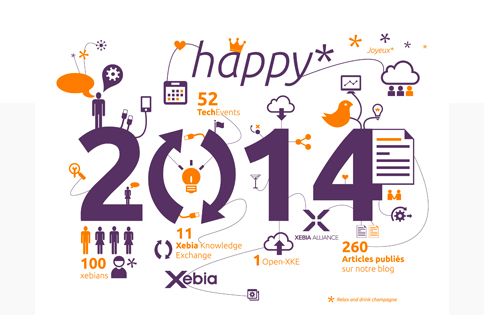
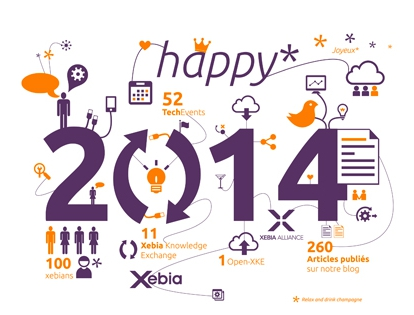
Brique 2014
(cherry picked from commit 83bf8c8b3130015f9b0c3c71f53744e612d884fa)

Conflicts:
	styles/main.min.css

diff --git a/styles/main.min.css b/styles/main.min.css
@@ -1,4 +1,4 @@
-.block{overflow:hidden;opacity:0;display:none;vertical-align:top;height:330px;margin:8px;cursor:move;-moz-box-shadow:0 4px 7px rgba(0,0,0,0.3);-webkit-box-shadow:0 4px 7px rgba(0,0,0,0.3);box-shadow:0 4px 7px rgba(0,0,0,0.3);min-width:150px}@media (max-width:1010px){.block:not(.small){min-width:97%;height:auto}.block.small{width:47%}}@media (max-width:700px){.block.small{min-width:97%;height:auto}}.standard-block{background-color:white}.standard-block .content-block{position:relative}.standard-block .bottom-arrow{width:0;height:0;border-left:10px solid transparent;border-right:10px solid transparent;border-top:15px solid white;position:absolute;left:10%}.standard-block .title-block{height:20px;margin:5px;padding:5px;color:white;text-transform:uppercase}.standard-block .title-block:after{clear:both;content:'';display:block}.standard-block .title-block time{float:right;text-transform:none}.standard-block .title-block.xebia-title{background-color:#702965}.standard-block .title-block.thiga-title{background-color:#30d7ce}.standard-block .title-block.labs-title{background-color:#408a29}.standard-block .title-block.ux-title{background-color:#2e2e2e}.standard-block h1{margin:2px 5px;margin-left:15px;margin-right:15px;font-size:21px;text-transform:uppercase;margin-top:20px;min-height:60px;font-weight:100}.standard-block p{margin-top:5px;margin-left:15px;margin-right:15px;text-align:justify}.standard-block .illustration{display:block;margin:0 auto}@media (max-width:1010px){.standard-block .illustration.big-illustration{width:100%}}.djerba-block h1{min-height:61px}.djerba-block img{height:212px}.eventbrite-block h1{min-height:153px}.eventbrite-block img{height:120px}.blog-block{max-width:480px}.blog-block h1{color:#702965;font-size:13pt;font-weight:bold;text-transform:uppercase;text-decoration:none;height:60px}.blog-block h1:hover{text-decoration:underline}.blog-block .excerpt{height:200px;line-height:200px;overflow:hidden;text-overflow:ellipsis;position:relative}.blog-block .excerpt .excerpt-content{line-height:1.2;margin-left:15px;margin-right:15px;font-weight:100;font-size:11pt;max-width:100%;display:inline-block;vertical-align:middle;max-height:100%}.blog-block .excerpt .excerpt-content img{max-width:100%;max-height:100%}.blog-block .excerpt:after{content:'';position:absolute;left:0;right:0;bottom:0;height:70px;width:100%;background-color:rgba(255,255,255,0);background:-webkit-linear-gradient(top, rgba(255,255,255,0), #fff);background:-moz-linear-gradient(top, rgba(255,255,255,0), #fff);background:-ms-linear-gradient(top, rgba(255,255,255,0), #fff);background:-o-linear-gradient(top, rgba(255,255,255,0), #fff);background:linear-gradient(top, rgba(255,255,255,0), #fff)}.ux-block{width:482px;background:url('../images/blocks/img_ux-republic.jpg') bottom}.ux-block .content-block{display:none}.ux-block .content-block img{max-width:482px}@media (max-width:1010px){.ux-block{background:white;width:auto}.ux-block .content-block{display:block}}.voeux-block{width:484px;background:url('../images/blocks/img-Brique-2014.jpg') bottom}.voeux-block .title-block{margin:0;border:5px solid white}.voeux-block .content-block{display:none}.voeux-block .content-block img{max-width:484px}@media (max-width:1010px){.voeux-block{background:white;width:auto}.voeux-block .content-block{display:block}}
+.block{overflow:hidden;opacity:0;display:none;vertical-align:top;height:330px;margin:8px;cursor:move;-moz-box-shadow:0 4px 7px rgba(0,0,0,0.3);-webkit-box-shadow:0 4px 7px rgba(0,0,0,0.3);box-shadow:0 4px 7px rgba(0,0,0,0.3);min-width:150px}@media (max-width:1010px){.block:not(.small){min-width:97%;height:auto}.block.small{width:47%}}@media (max-width:700px){.block.small{min-width:97%;height:auto}}.standard-block{background-color:white}.standard-block .content-block{position:relative}.standard-block .bottom-arrow{width:0;height:0;border-left:10px solid transparent;border-right:10px solid transparent;border-top:15px solid white;position:absolute;left:10%}.standard-block .title-block{height:20px;margin:5px;padding:5px;color:white;text-transform:uppercase}.standard-block .title-block:after{clear:both;content:'';display:block}.standard-block .title-block time{float:right;text-transform:none}.standard-block .title-block.xebia-title{background-color:#702965}.standard-block .title-block.thiga-title{background-color:#30d7ce}.standard-block .title-block.labs-title{background-color:#408a29}.standard-block .title-block.ux-title{background-color:#2e2e2e}.standard-block h1{margin:2px 5px;margin-left:15px;margin-right:15px;font-size:21px;text-transform:uppercase;margin-top:20px;min-height:60px;font-weight:100}.standard-block p{margin-top:5px;margin-left:15px;margin-right:15px;text-align:justify}.standard-block .illustration{display:block;margin:0 auto}@media (max-width:1010px){.standard-block .illustration.big-illustration{width:100%}}.djerba-block h1{min-height:61px}.djerba-block img{height:212px}.eventbrite-block h1{min-height:153px}.eventbrite-block img{height:120px}.blog-block{max-width:480px}.blog-block h1{color:#702965;font-size:13pt;font-weight:bold;text-transform:uppercase;text-decoration:none;height:60px}.blog-block h1:hover{text-decoration:underline}.blog-block .excerpt{height:200px;line-height:200px;overflow:hidden;text-overflow:ellipsis;position:relative}.blog-block .excerpt .excerpt-content{line-height:1.2;margin-left:15px;margin-right:15px;font-weight:100;font-size:11pt;max-width:100%;display:inline-block;vertical-align:middle;max-height:100%}.blog-block .excerpt .excerpt-content img{max-width:100%;max-height:100%}.blog-block .excerpt:after{content:'';position:absolute;left:0;right:0;bottom:0;height:70px;width:100%;background-color:rgba(255,255,255,0);background:-webkit-linear-gradient(top, rgba(255,255,255,0), #fff);background:-moz-linear-gradient(top, rgba(255,255,255,0), #fff);background:-ms-linear-gradient(top, rgba(255,255,255,0), #fff);background:-o-linear-gradient(top, rgba(255,255,255,0), #fff);background:linear-gradient(top, rgba(255,255,255,0), #fff)}.ux-block{width:482px;background:url('../images/blocks/img_ux-republic.jpg') bottom}.ux-block .content-block{display:none}.ux-block .content-block img{max-width:482px}@media (max-width:1010px){.ux-block{background:white;width:auto}.ux-block .content-block{display:block}}.voeux-block{width:414px;background:url('../images/blocks/img-Brique-2014.jpg') bottom}.voeux-block .content-block{display:none}.voeux-block .content-block img{max-width:414px}@media (max-width:1010px){.voeux-block{background:white;width:auto}.voeux-block .content-block{display:block}}
 .headers>div.labs-header{left:200%}.wrapper.labs .general-navigation .page-indicator-labs{background-color:white}.wrapper.labs .headers{left:-200%}.wrapper.labs .headers>div.labs-header{display:block}.wrapper.labs .knowing-more .emphasized{color:#046586}.wrapper.labs .content{background-color:#e0e0e0}.labs-header{background:#e9e9e9 url('../images/labs/img_Header_Xebialabs.png') no-repeat;text-align:center}.labs-header-logo{margin-top:90px}.labs-description{color:#046586;margin-right:auto;margin-left:auto;text-align:center}.labs-description h1{font-weight:bold}.labs-description h2{font-weight:lighter}
 .wrapper.legal header{height:75px;background-color:#5d0065}@media (min-width:700px){.wrapper.legal header .general-navigation .frise{min-height:58px;max-height:58px}}.wrapper.legal .content{color:#000000;background-color:#F2F2F2;font-family:'Oxygen',sans-serif;font-size:12pt;padding:35px;max-width:954px}.wrapper.legal .content hr{border:0;border-top:2px solid #727272;margin-bottom:85px}.wrapper.legal .content em{font-style:normal;color:#5d0065}.wrapper.legal .content h2{text-transform:uppercase;font-size:30pt;text-align:center;font-weight:normal;padding-top:55px}.wrapper.legal .content h2 em{font-style:normal;font-weight:normal}.wrapper.legal .content h3{color:#605C61;font-size:24pt;font-weight:normal;text-transform:uppercase}.wrapper.legal .content .subtitle{display:block;text-transform:uppercase;font-size:14pt;text-align:center}.wrapper.legal .content p{margin-top:45px;margin-bottom:45px}.wrapper.legal .content H3,.wrapper.legal .content p,.wrapper.legal .content li{margin-left:35px;margin-right:35px}.wrapper.legal .content li{list-style-position:inside}.wrapper.legal .content ul{line-height:24pt;padding-left:0}@media (max-width:700px){.wrapper.legal .content{padding:0}.wrapper.legal .content h3{font-size:18pt}.wrapper.legal .content h3,.wrapper.legal .content p,.wrapper.legal .content li{margin-right:10px;margin-left:10px}}
 html,body{height:100%;min-height:100%}html,body,h1,h2,h3,p{padding:0;margin:0}a,span,div,h1,h2,p{font-family:'Oxygen',sans-serif}.browser-warning{background-color:red;color:white;margin:0 auto;min-width:310px;max-width:1024px;padding:5px}.wrapper{margin:0 auto;max-width:1024px;min-height:100%;position:relative;-moz-transition:background-color .5s;-webkit-transition:background-color .5s;-o-transition:background-color .5s;transition:background-color .5s}.wrapper header{position:relative}.wrapper header .inline-menu{display:none;background-color:#2F2F2F;height:100px}.wrapper header .inline-menu .galatic-bar .labs-band,.wrapper header .inline-menu .galatic-bar .xebia-band,.wrapper header .inline-menu .galatic-bar .ux-band,.wrapper header .inline-menu .galatic-bar .thiga-band{width:25%;height:5px;display:block;float:left}.wrapper header .inline-menu .galatic-bar .xebia-band{background-color:#5c016a}.wrapper header .inline-menu .galatic-bar .labs-band{background-color:#8Cb828}.wrapper header .inline-menu .galatic-bar .ux-band{background-color:#C5C2C1}.wrapper header .inline-menu .galatic-bar .thiga-band{background-color:#19d8ce}.wrapper header .inline-menu .galatic-bar:after{clear:both;content:'';display:block}.wrapper header .inline-menu .stripes{display:inline-block;height:40px;width:60px;margin-top:30px;margin-left:35px;cursor:pointer}.wrapper header .inline-menu .stripes.on .stripe-band{background-color:#19C8CE}.wrapper header .inline-menu .stripes .stripe-band{display:block;background-color:white;margin-bottom:5px;height:5px}@media (max-width:700px){.wrapper header .widget-wrapper,.wrapper header .company{display:none}.wrapper header .inline-menu{display:block}}.wrapper header .company{height:482px;overflow:hidden}.wrapper header .company .headers{height:100%;max-width:1024px;position:relative}.wrapper header .company .headers>div{height:100%;display:none;width:100%;position:absolute}.wrapper header .general-navigation .alliance-logo{background:url("../images/img_header_logo_alliance.png");width:140px;height:111px;position:absolute;top:10px;left:20px}@media (max-width:700px){.wrapper header .general-navigation .alliance-logo{position:static;margin:20px auto;background:url("../images/logo-alliance-color.png") top;width:240px;height:175px}}.wrapper header .general-navigation .alliance-logo>span{display:none}.wrapper header .general-navigation .prev-page-wrapper,.wrapper header .general-navigation .next-page-wrapper{vertical-align:middle;line-height:482px;position:absolute;top:0}.wrapper header .general-navigation .prev-page-wrapper{left:20px}.wrapper header .general-navigation .next-page-wrapper{right:20px}.wrapper header .general-navigation .prev-page,.wrapper header .general-navigation .next-page{-moz-border-radius:100%;-webkit-border-radius:100%;border-radius:100%;border:none;padding:0;margin:0;color:white;height:40px;line-height:40px;width:40px;cursor:pointer;font-size:25px;text-align:center;vertical-align:middle;-moz-box-shadow:0 4px 7px rgba(0,0,0,0.3);-webkit-box-shadow:0 4px 7px rgba(0,0,0,0.3);box-shadow:0 4px 7px rgba(0,0,0,0.3);-moz-transition:background-color .5s;-webkit-transition:background-color .5s;-o-transition:background-color .5s;transition:background-color .5s;background-color:#dcdcdc;background-color:rgba(220,220,220,0.4)}.wrapper header .general-navigation .prev-page:hover,.wrapper header .general-navigation .next-page:hover{background-color:#f0f0f0;background-color:rgba(240,240,240,0.5)}.wrapper header .general-navigation .prev-page>span,.wrapper header .general-navigation .next-page>span{color:#EEE;position:relative;bottom:2px}.wrapper header .general-navigation .prev-page>span{right:2px}.wrapper header .general-navigation .next-page>span{left:2px}.wrapper header .general-navigation .knowing-more{position:absolute;left:0;right:0;bottom:115px;text-align:center}.wrapper header .general-navigation .knowing-more a>span{text-transform:uppercase;font-size:14px;display:inline-block;padding:10px 35px;background-color:#ebebeb;background-color:rgba(235,235,235,0.7);-moz-box-shadow:0 4px 7px rgba(0,0,0,0.3);-webkit-box-shadow:0 4px 7px rgba(0,0,0,0.3);box-shadow:0 4px 7px rgba(0,0,0,0.3);-moz-transition:all .5s;-webkit-transition:all .5s;-o-transition:all .5s;transition:all .5s;color:#4e5454}.wrapper header .general-navigation .knowing-more a>span:hover{background-color:#f0f0f0;background-color:rgba(240,240,240,0.8)}.wrapper header .general-navigation .knowing-more a>span .emphasized{font-weight:700;-moz-transition:color .5s;-webkit-transition:color .5s;-o-transition:color .5s;transition:color .5s}.wrapper header .general-navigation .page-indicators{position:absolute;bottom:80px;left:0;right:0;text-align:center}.wrapper header .general-navigation .page-indicators>span{cursor:pointer;display:inline-block;-moz-border-radius:100%;-webkit-border-radius:100%;border-radius:100%;height:10px;width:10px;margin-left:5px;margin-right:5px;background-color:#dcdcdc;background-color:rgba(220,220,220,0.4)}.wrapper header .general-navigation .frise{background-color:#000;background-color:rgba(0,0,0,0.7);-moz-transition:background-color .5s;-webkit-transition:background-color .5s;-o-transition:background-color .5s;transition:background-color .5s;position:absolute;bottom:0;min-height:60px;width:100%;max-width:1024px;z-index:1}@media (max-width:700px){.wrapper header .general-navigation .frise{top:100px;bottom:inherit;overflow:hidden;height:0;-moz-transition:all .5s;-webkit-transition:all .5s;-o-transition:all .5s;transition:all .5s;min-height:0}.wrapper header .general-navigation .frise.open{height:250px}}.wrapper header .general-navigation .frise>span{display:inline-block;min-width:170px;width:19.5%;text-align:center;vertical-align:middle}.wrapper header .general-navigation .frise>span>a{display:inline-block}.wrapper header .general-navigation .frise>span>a.alliance{background:url('../images/img-logo-2-alliance.png');width:92px;height:60px}.wrapper header .general-navigation .frise>span>a.xebia{background:url('../images/xebia/img_nav_logo_Xebia.png');width:101px;height:45px}.wrapper header .general-navigation .frise>span>a.ux{background:url('../images/ux/img_nav_logo_UX.png');width:161px;height:59px}.wrapper header .general-navigation .frise>span>a.labs{background:url('../images/labs/img_nav_logo_labs.png');width:151px;height:46px}.wrapper header .general-navigation .frise>span>a.thiga{background:url('../images/thiga/img_nav_logo_thiga.png');width:86px;height:40px}.wrapper header .general-navigation .frise>span>a>span{display:none}@media (max-width:700px){.wrapper header .general-navigation .frise>span{display:block;width:auto;min-width:0}.wrapper header .general-navigation .frise>span>a.alliance,.wrapper header .general-navigation .frise>span>a.xebia,.wrapper header .general-navigation .frise>span>a.ux,.wrapper header .general-navigation .frise>span>a.labs,.wrapper header .general-navigation .frise>span>a.thiga{background-image:none;height:50px;line-height:50px;width:90%;color:#929292;text-decoration:none}.wrapper header .general-navigation .frise>span>a.alliance>span,.wrapper header .general-navigation .frise>span>a.xebia>span,.wrapper header .general-navigation .frise>span>a.ux>span,.wrapper header .general-navigation .frise>span>a.labs>span,.wrapper header .general-navigation .frise>span>a.thiga>span{width:80%;display:inline-block;text-align:left;margin-left:10%;text-transform:uppercase}.wrapper header .general-navigation .frise>span>a.alliance:hover,.wrapper header .general-navigation .frise>span>a.xebia:hover,.wrapper header .general-navigation .frise>span>a.ux:hover,.wrapper header .general-navigation .frise>span>a.labs:hover,.wrapper header .general-navigation .frise>span>a.thiga:hover{color:white}.wrapper header .general-navigation .frise>span>a.alliance:after,.wrapper header .general-navigation .frise>span>a.xebia:after,.wrapper header .general-navigation .frise>span>a.ux:after,.wrapper header .general-navigation .frise>span>a.labs:after,.wrapper header .general-navigation .frise>span>a.thiga:after{content:'>'}.wrapper header .general-navigation .frise>span>a.alliance,.wrapper header .general-navigation .frise>span>a.xebia,.wrapper header .general-navigation .frise>span>a.ux,.wrapper header .general-navigation .frise>span>a.labs{border-bottom:1px solid #929292}.wrapper header .general-navigation .frise>span>a.alliance:hover,.wrapper header .general-navigation .frise>span>a.xebia:hover,.wrapper header .general-navigation .frise>span>a.ux:hover,.wrapper header .general-navigation .frise>span>a.labs:hover{border-bottom-color:white}.wrapper header .general-navigation .frise>span>a>span{display:inline}}.wrapper .logo-footer{text-align:center;margin-top:50px}.wrapper .logo-footer p{color:#605C61;font-size:14pt}.wrapper .logo-footer .alliance{color:#8e8e8e;border-top:1px solid #8e8e8e;margin-top:40px;padding-top:30px;padding-bottom:40px}.wrapper .logo-footer .alliance a{text-decoration:none;color:#8e8e8e}.wrapper .logo-footer .alliance a:hover{color:#5b5b5b;text-decoration:underline}.wrapper .logo-footer .legal-footer{background-color:#423d41;color:white}.wrapper .logo-footer .legal-footer a{color:white;text-decoration:none}.wrapper .logo-footer .legal-footer a:hover{color:#ccc;text-decoration:underline}.wrapper .logo-footer .legal-footer a:visited{color:#ababab}.wrapper .content{-moz-transition:background-color .5s;-webkit-transition:background-color .5s;-o-transition:background-color .5s;transition:background-color .5s}

diff --git a/styles/blocks.less b/styles/blocks.less
@@ -183,14 +183,14 @@
   }
 }
 
-.ux-block {
-  width: 482px;
-  background: url('../images/blocks/img_ux-republic.jpg') bottom;
+.blockWithOnlyAnImage(@imageWidth, @imageUrl) {
+  width: @imageWidth;
+  background: url(@imageUrl) bottom;
   .content-block {
     display: none;
 
     img {
-      max-width:482px;
+      max-width: @imageWidth;
     }
   }
   @media (max-width: @tableModeMaxWidth) {
@@ -203,29 +203,11 @@
   }
 }
 
+.ux-block {
+  .blockWithOnlyAnImage(482px, '../images/blocks/img_ux-republic.jpg');
+}
+
 .voeux-block {
-  width: 484px;
-  background: url('../images/blocks/img-Brique-2014.jpg') bottom;
-
-  .title-block {
-    margin: 0;
-    border: 5px solid white;
-  }
-
-  .content-block {
-    display: none;
-
-    img {
-      max-width:484px;
-    }
-  }
-  @media (max-width: @tableModeMaxWidth) {
-    background: white;
-    width: auto;
-
-    .content-block {
-      display: block;
-    }
-  }
+  .blockWithOnlyAnImage(414px, '../images/blocks/img-Brique-2014.jpg');
 }
 

diff --git a/_includes/blocks.html b/_includes/blocks.html
@@ -1,8 +1,8 @@
 {% include blocks/2013-01-01-Nb_Collaborateur.html %}
 {% include blocks/2013-12-04-Associe_Thiga.html %}
 {% include blocks/2013-09-30-Interview_Luc.html %}
-{% include blocks/2013-10-18-Djerba.html %}
+{% include blocks/2014-01-01-Voeux.html %}
 {% include blocks/2013-11-18-Client_Deployit.html %}
 {% include blocks/2013-12-16-Design_Thinking_Thiga.html %}
 {% include blocks/2013-12-16-UX.html %}
-{% include blocks/2014-01-01-Voeux.html %}
+{% include blocks/2013-10-18-Djerba.html %}
